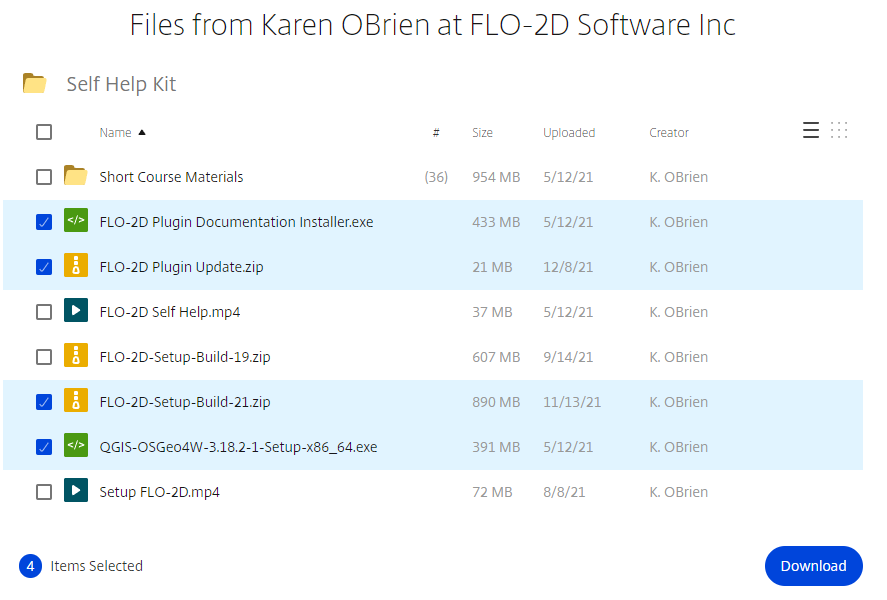
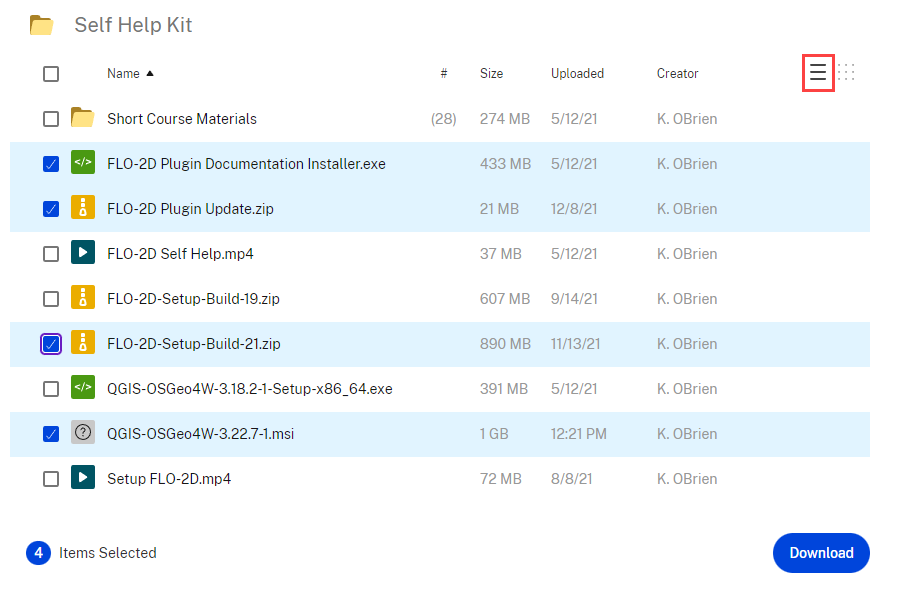
UpdateSetup

diff --git a/source/Advanced-Lessons/Module 2 Part 2.rst b/source/Advanced-Lessons/Module 2 Part 2.rst
@@ -20,6 +20,14 @@ The required data is in Module 1 and 2
 
 .. youtube:: 5XFkNQ6z8Oc
 
+.. note:: The accompanying YouTube video shows several more advanced ideas for modeling culverts.  The tutorial focus is
+          on the generalized culvert equation.
+
+          - Advanced channel culvert modeling
+          - Simple storm drain
+          - When to use tailwater switches.
+          - How to use the head reference elevation.
+
 Step 1: Setup the project
 __________________________
 

diff --git a/source/Intro/Set-up.rst b/source/Intro/Set-up.rst
@@ -90,7 +90,7 @@ Step 4: QGIS Installer
 ----------------------
 Follow these instructions to set up QGIS.
 
-1. Double click the QGIS-OSGeo4W-3.18.2-1.exe file.
+1. Double click the QGIS-OSGeo4W-3.22.7-1.msi file.
 
 2. Finish installing with the default settings.
 
